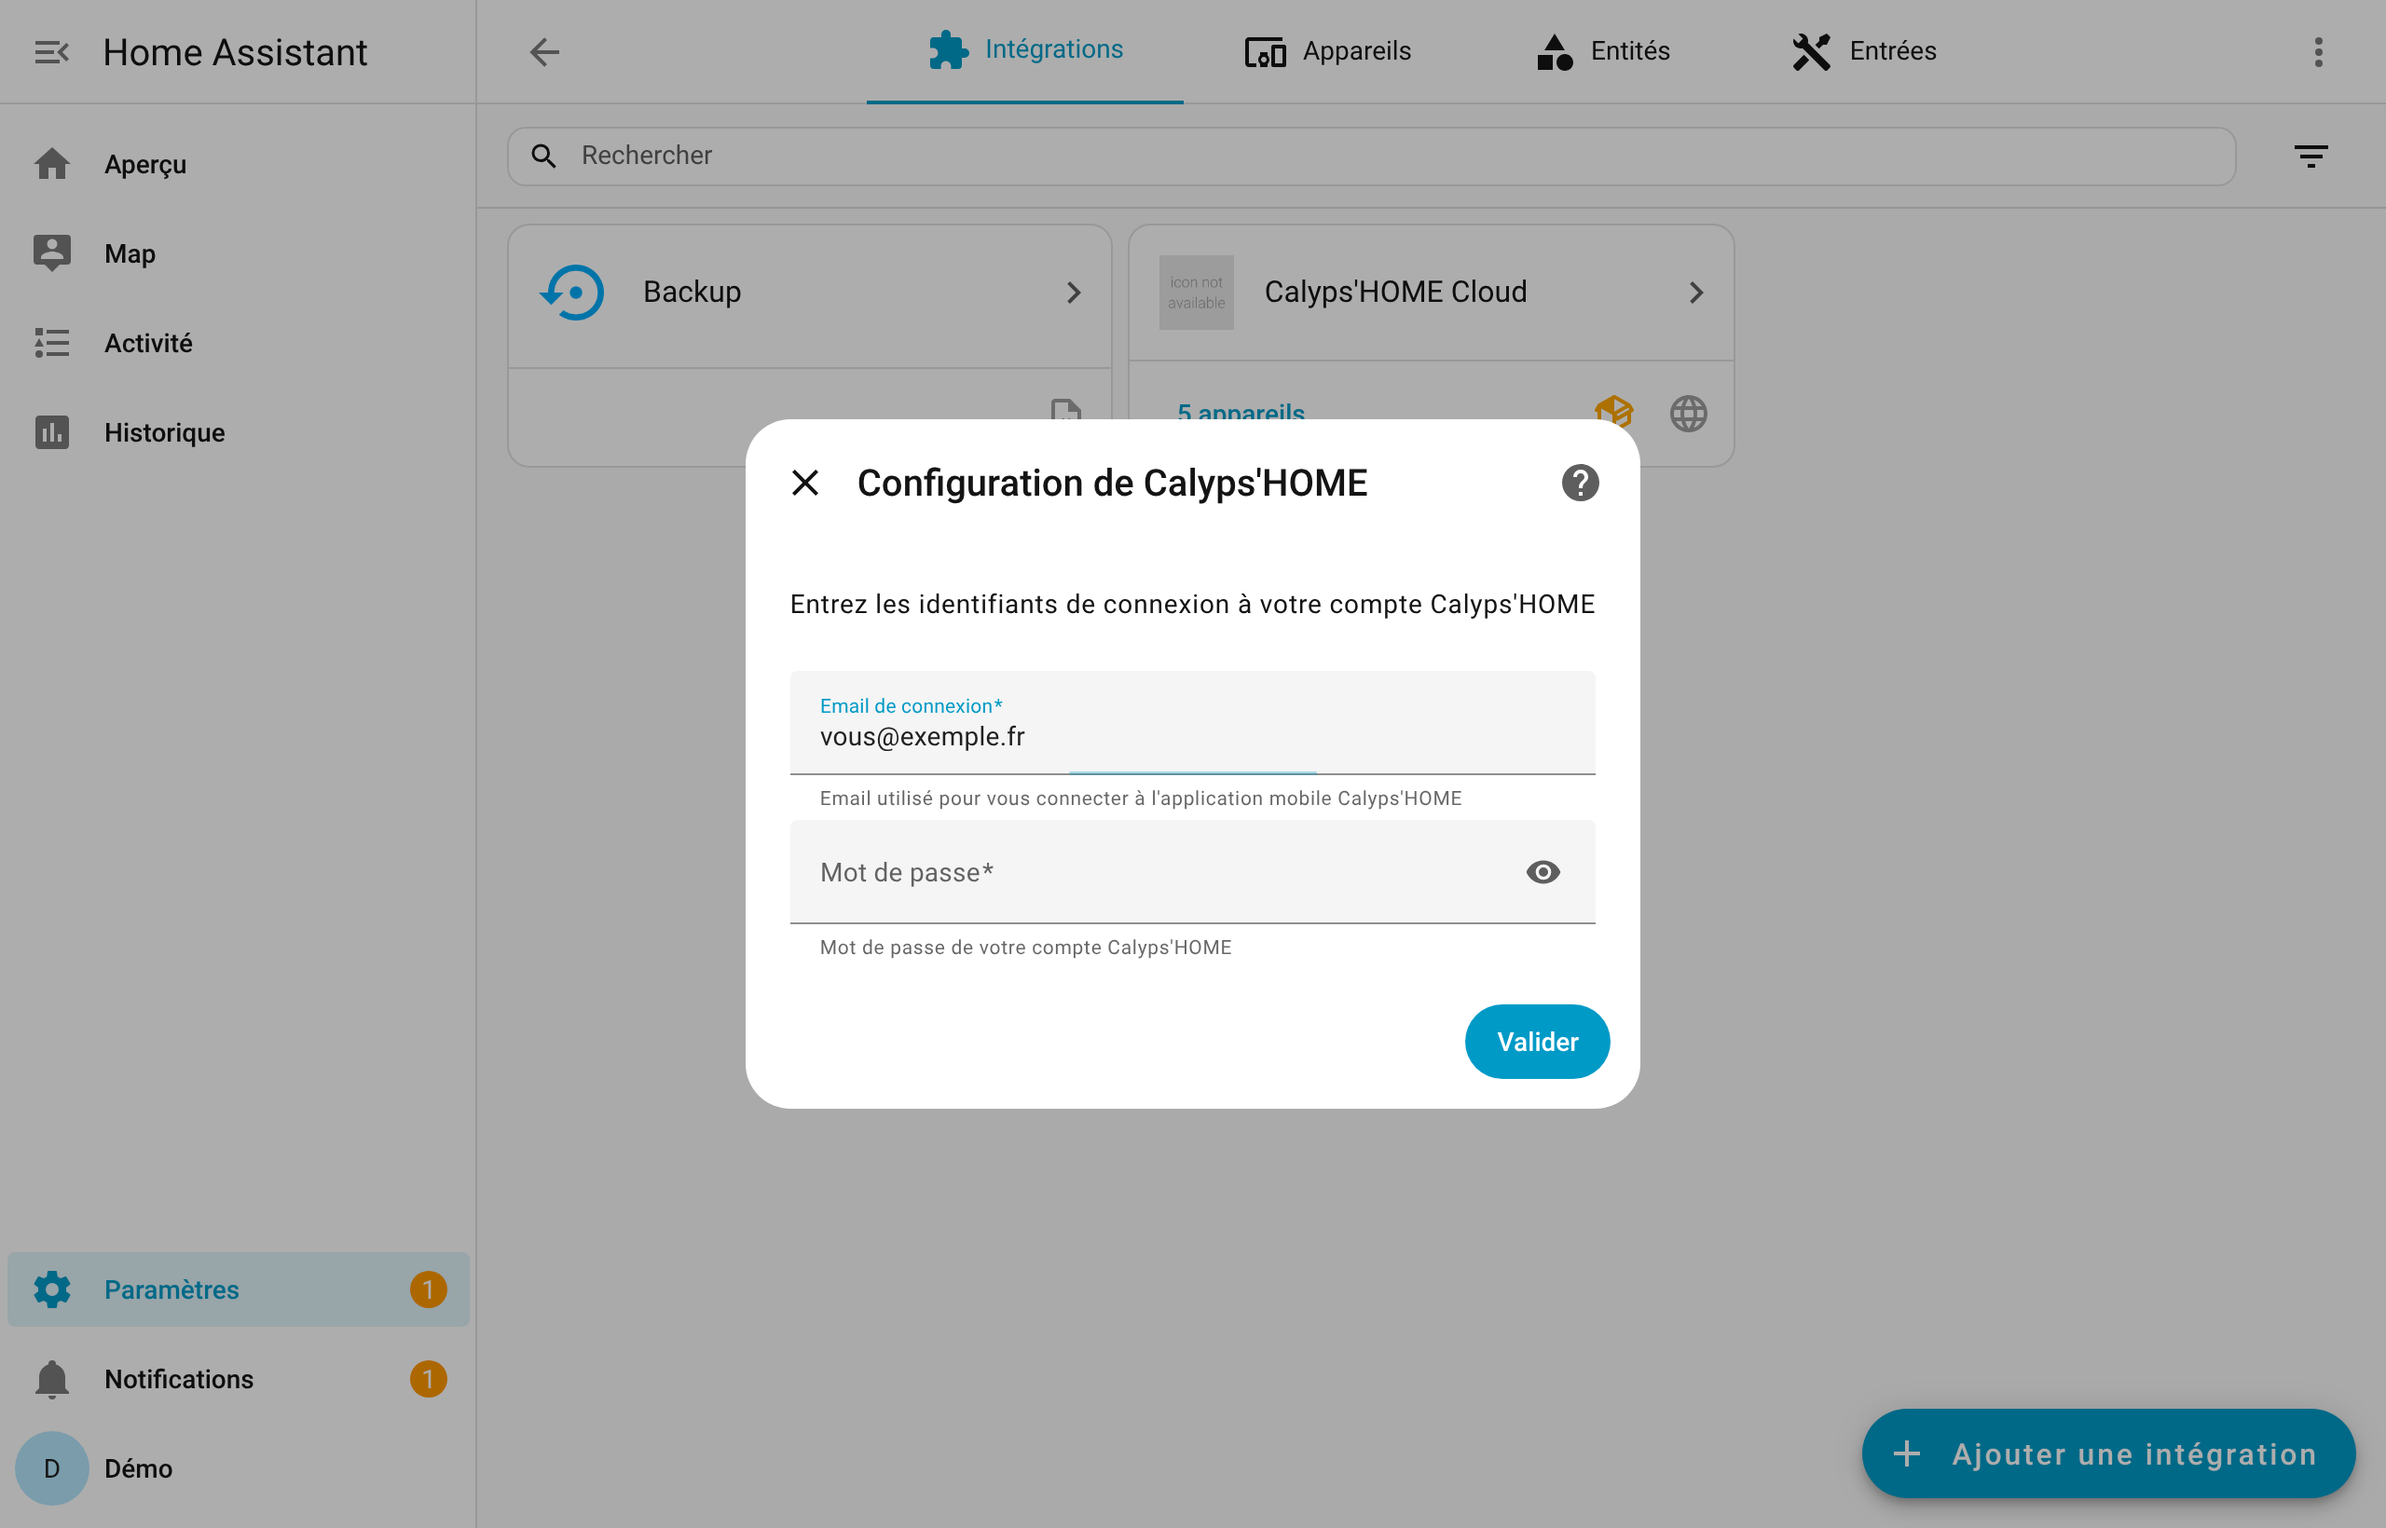
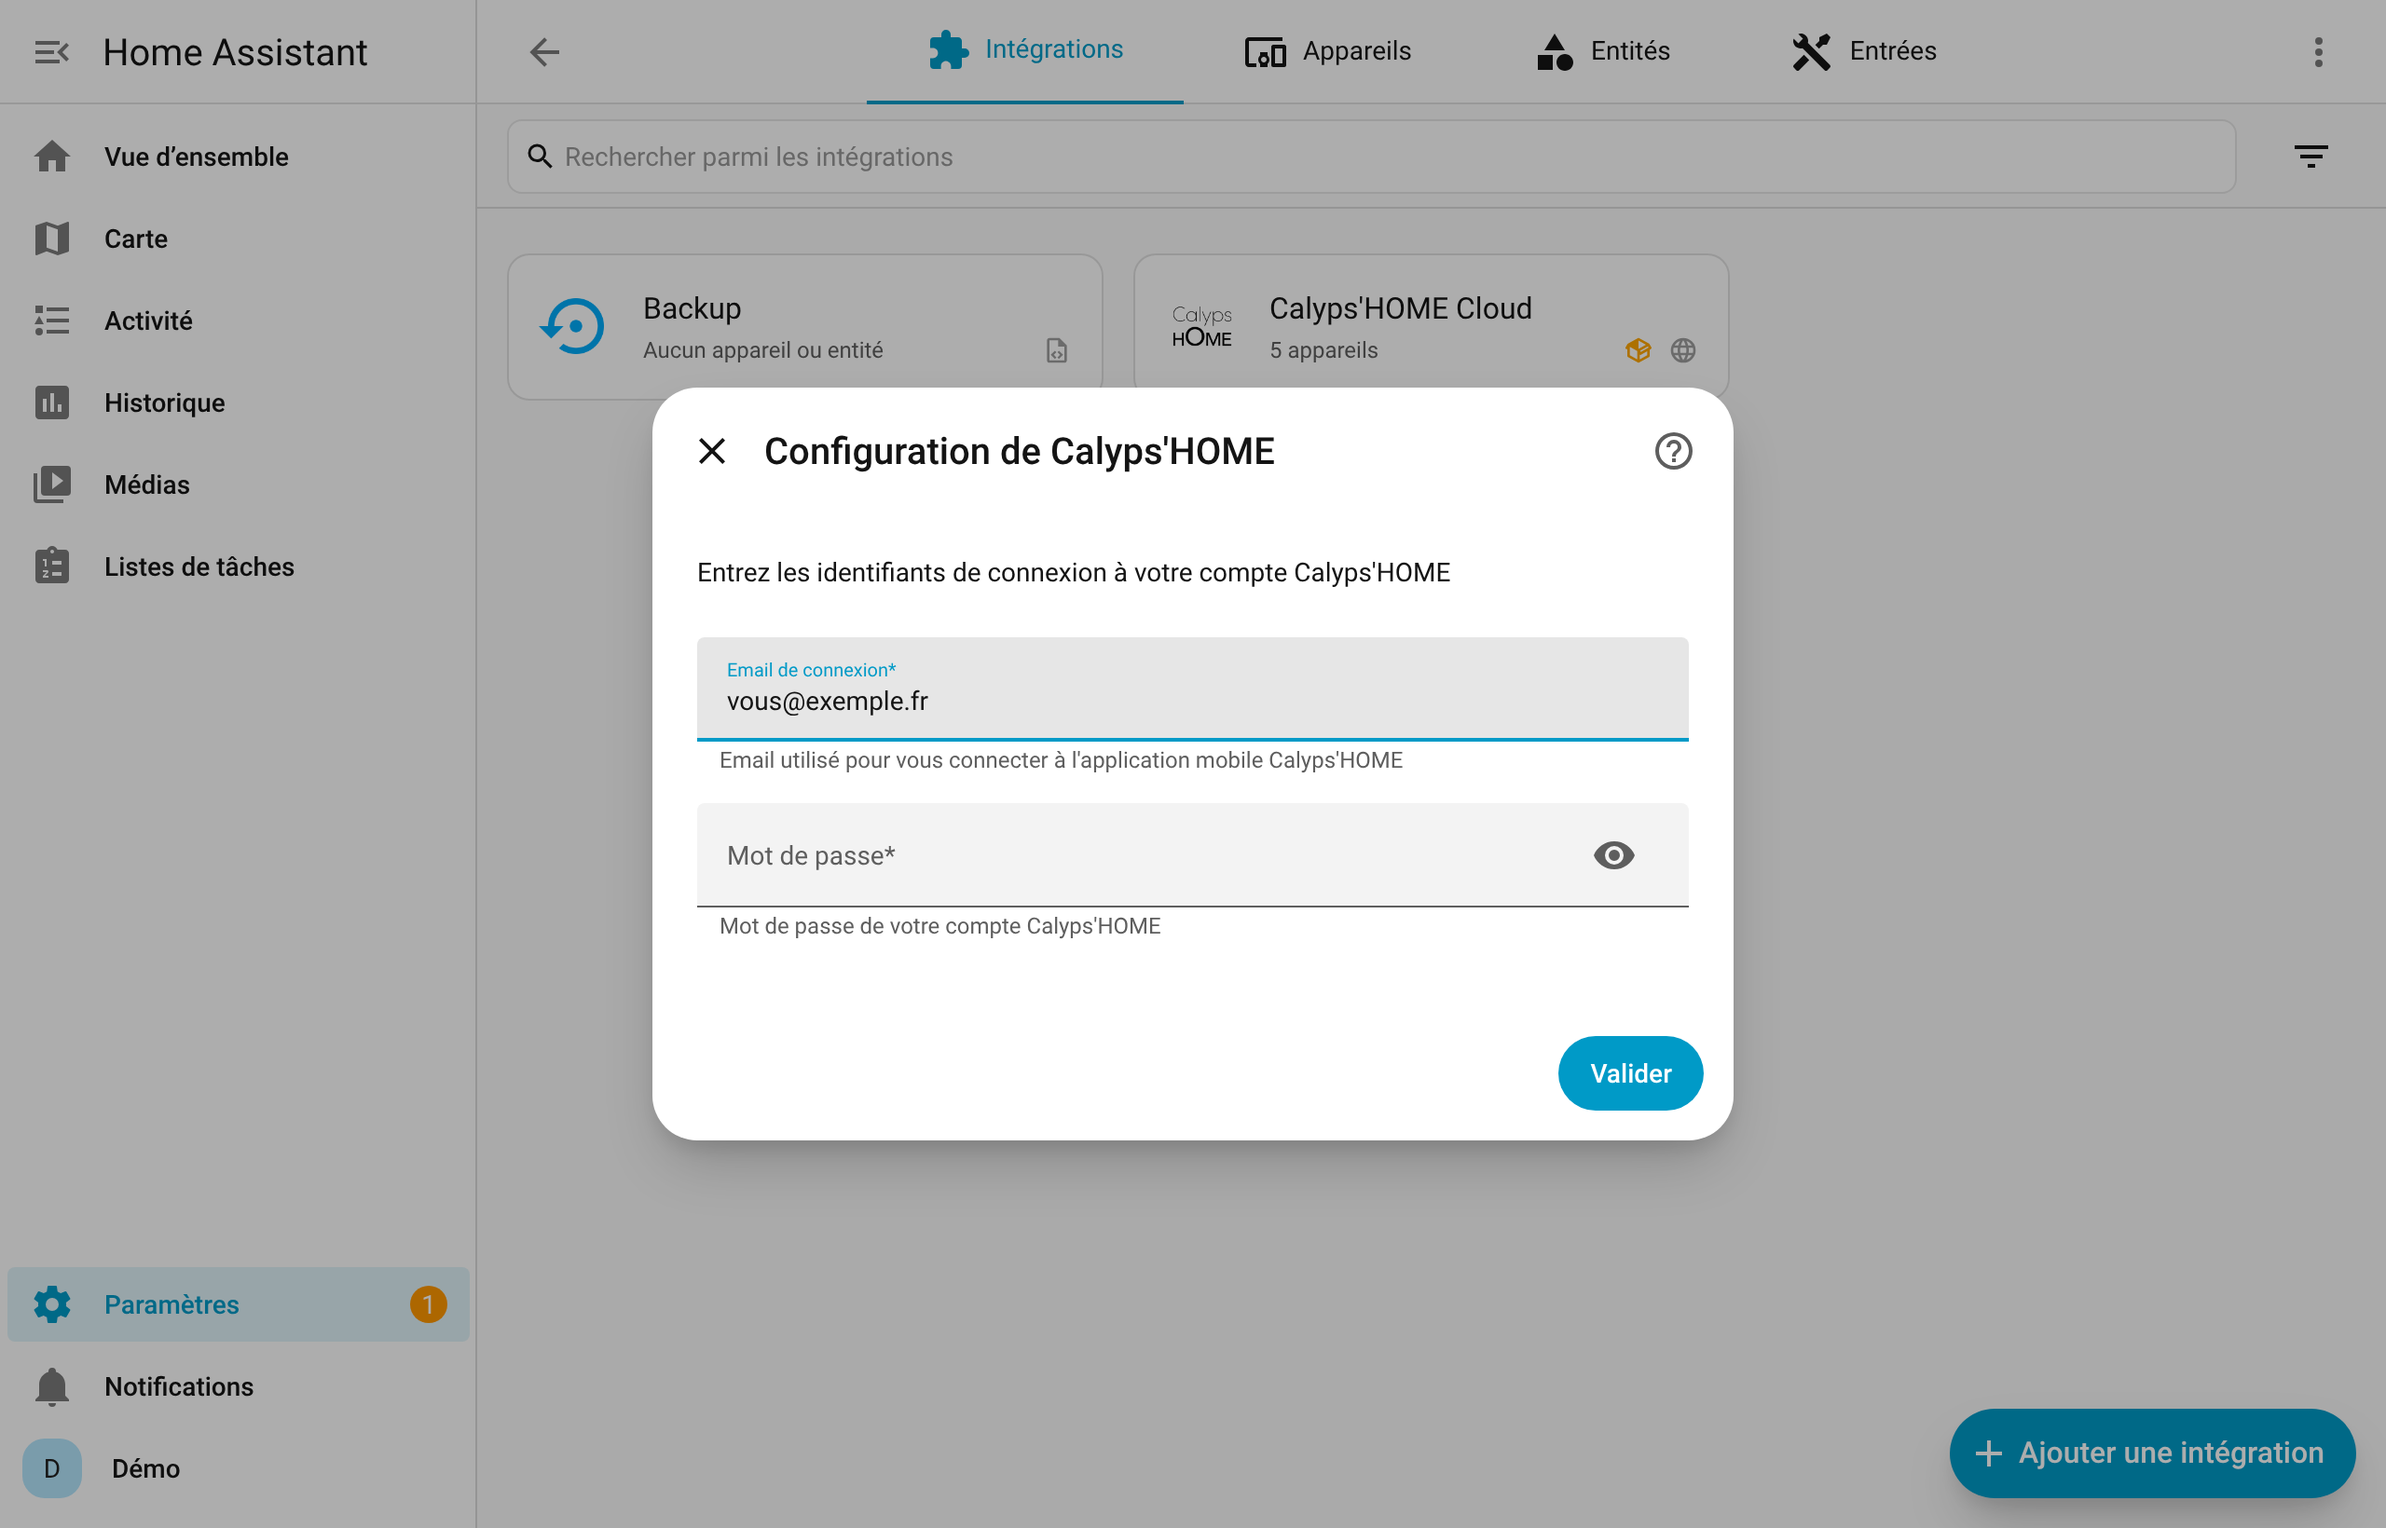
README : captures d'écran refaites sous Home Assistant 2026.11
Les captures précédentes, prises sous 2026.2, n'affichaient pas le logo :
la prise en charge du dossier brand/ des intégrations personnalisées
n'existe que depuis Home Assistant 2026.3. Le README le précise.

Claude-Session: https://claude.ai/code/session_013WtqaFPUE8iN384zn8vhxm

diff --git a/README.md b/README.md
@@ -46,7 +46,7 @@ Merci à l'auteur original pour le travail de base et les idées initiales.
 
 ## Captures d'écran
 
-> Captures réalisées dans Home Assistant 2026.2 avec des données d'exemple.
+> Captures réalisées dans Home Assistant 2026.11 avec des données d'exemple.
 
 **Ajout de l'intégration** — seuls l'email et le mot de passe de l'application Calyps'HOME sont demandés :
 
@@ -80,7 +80,7 @@ Merci à l'auteur original pour le travail de base et les idées initiales.
 
 ## Prérequis
 
-- Home Assistant **2024.11** ou plus récent
+- Home Assistant **2024.11** ou plus récent (le logo de l'intégration s'affiche à partir de **2026.3**)
 - Un compte Calyps'HOME (identifiants de l'application mobile)
 
 ## Installation
